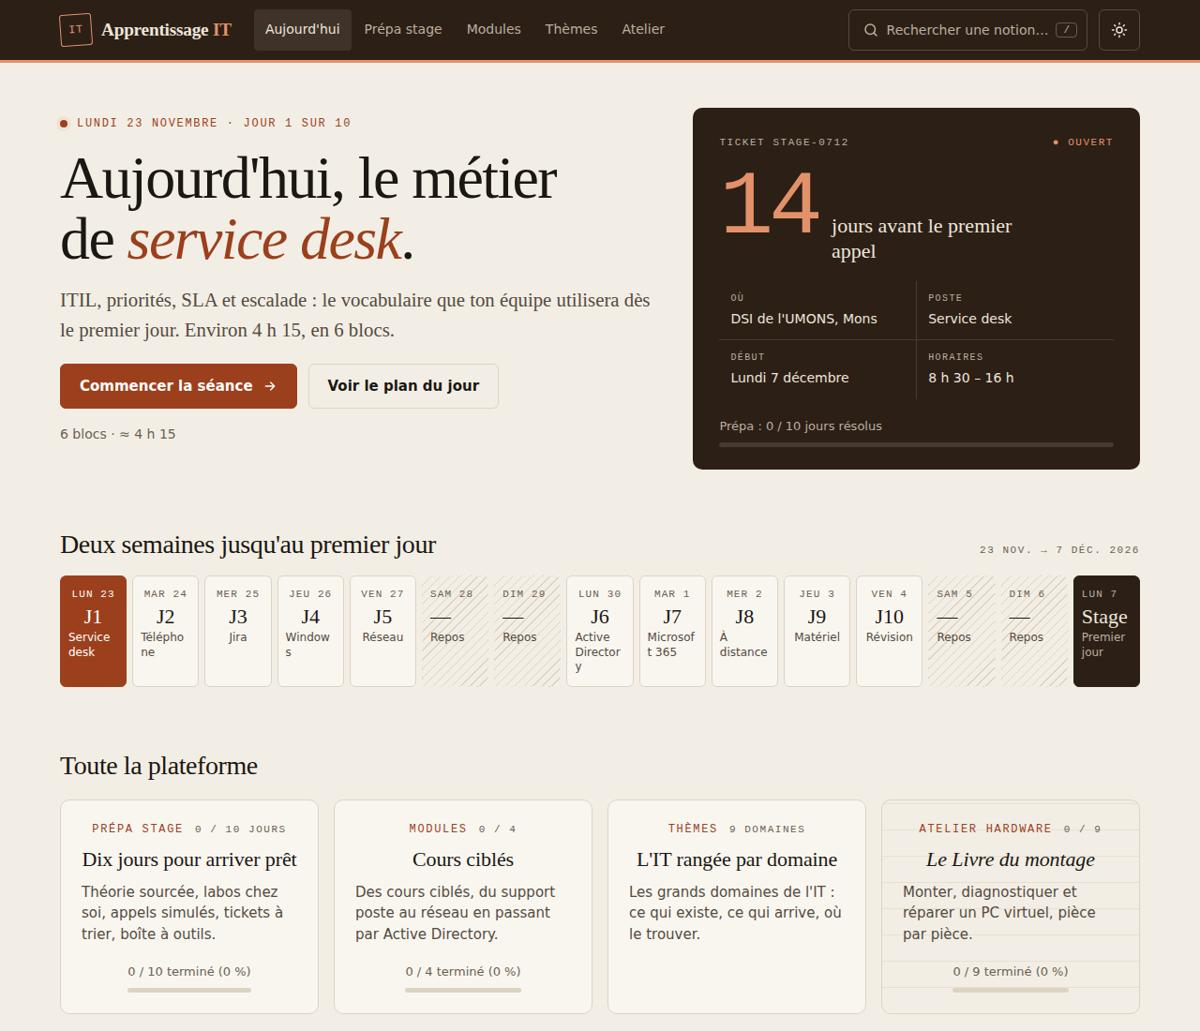
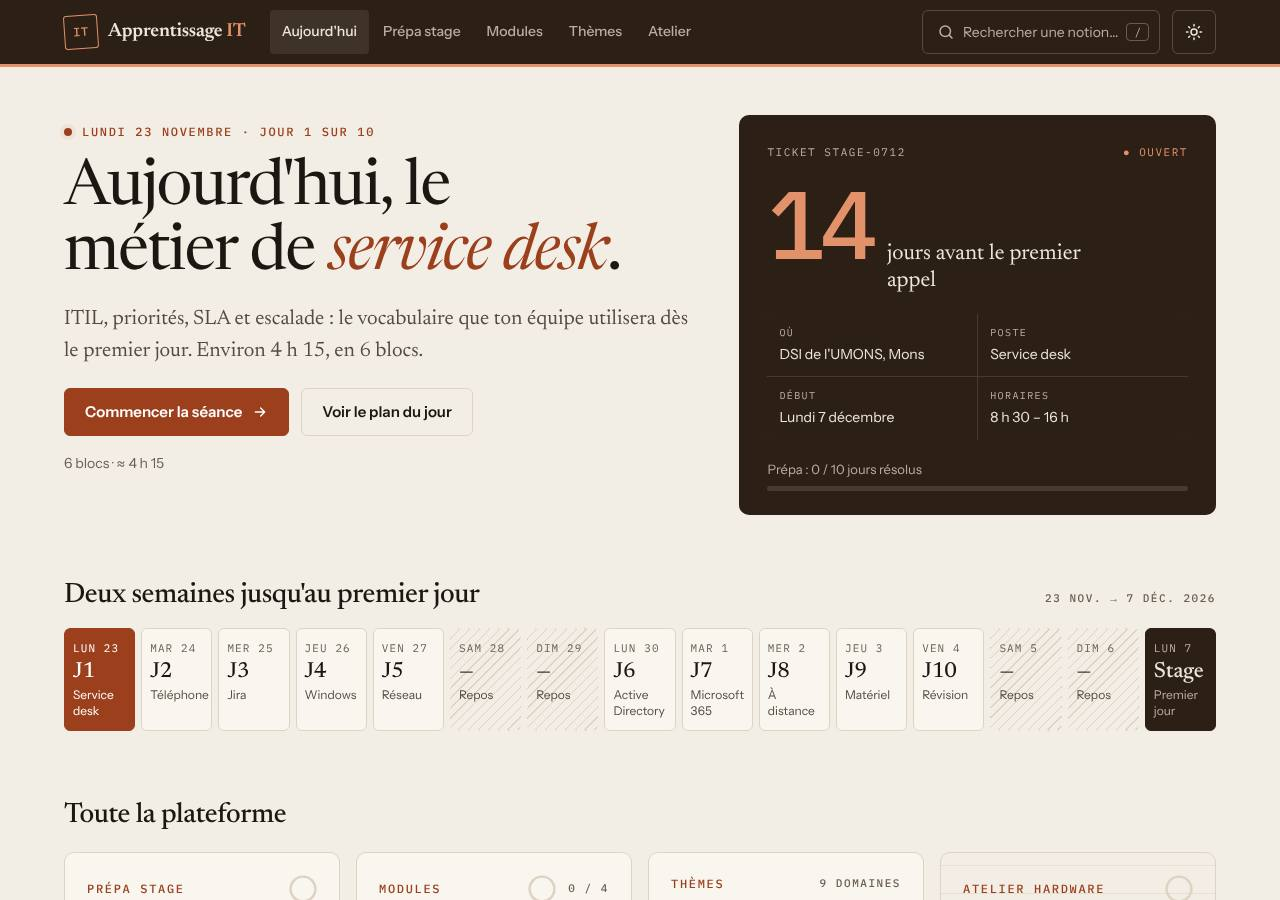
Lot 13 : finir l’accessibilité, les parcours et le ménage, rétablir la mise en page des liens, anneaux de progression et rapport final
Claude-Session: https://claude.ai/code/session_018EwsdEMJ6Dgafgxy6XGtMf

diff --git a/assets/style.css b/assets/style.css
@@ -14,6 +14,7 @@
   --font-text: "Newsreader", Georgia, "Times New Roman", serif;
   --font-ui: "Instrument Sans", system-ui, -apple-system, "Segoe UI", sans-serif;
   --font-code: "IBM Plex Mono", Consolas, "Courier New", monospace;
+  --fell: "IM Fell English", Georgia, "Times New Roman", serif; --fell-sc: "IM Fell English SC", "IM Fell English", Georgia, serif; --gravure: #E3B49A;
   --s1: 4px; --s2: 8px; --s3: 12px; --s4: 16px; --s5: 24px; --s6: 32px; --s7: 48px; --s8: 64px;
   --r-s: 4px; --r-m: 6px; --r-l: 10px;
   --shadow-float: 0 18px 48px -16px rgba(27, 23, 19, 0.55);
@@ -53,7 +54,6 @@ body {
 main { flex: 1; }
 img, svg { max-width: 100%; height: auto; }
 a { color: var(--accent); text-underline-offset: 0.18em; text-decoration-thickness: 1px; }
-@media screen { :where(a[href]) { display: inline-flex; align-items: center; min-width: 44px; min-height: 44px; max-width: 100%; overflow-wrap: anywhere; } }
 a:hover { text-decoration-thickness: 2px; }
 :focus-visible { outline: 3px solid var(--accent); outline-offset: 2px; border-radius: var(--r-s); }
 ::selection { background: var(--accent-soft); color: var(--ink); }
@@ -92,8 +92,7 @@ kbd { padding: 0.08em 0.42em; background: var(--surface); border: 1px solid var(
 .page { padding-top: var(--s6); padding-bottom: var(--s8); }
 @media (min-width: 52rem) { .page { padding-top: var(--s7); } }
 .grid { display: grid; gap: var(--s4); grid-template-columns: minmax(0, 1fr); }
-@media (min-width: 40rem) { .grid.cols-2, .grid.cols-3 { grid-template-columns: repeat(2, minmax(0, 1fr)); } }
-@media (min-width: 62rem) { .grid.cols-3 { grid-template-columns: repeat(3, minmax(0, 1fr)); } }
+@media (min-width: 40rem) { .grid.cols-2 { grid-template-columns: repeat(2, minmax(0, 1fr)); } }
 
 /* ---------- En-tête ---------- */
 .site-header { position: sticky; top: 0; z-index: 50; background: var(--bar); color: var(--bar-ink); border-bottom: 3px solid var(--bar-accent); font-family: var(--font-ui); }
@@ -324,8 +323,14 @@ a.case:hover { border-color: var(--accent); }
 .case.stage .case-date, .case.stage .case-sujet { color: var(--bar-soft); }
 .rubriques { display: grid; gap: var(--s4); grid-template-columns: repeat(auto-fit, minmax(min(100%, 15rem), 1fr)); }
 .rub { min-height: 13rem; gap: 10px; }
-.rub-tete { display: flex; align-items: center; justify-content: space-between; gap: var(--s3); }
+.rub-tete { display: flex; flex-wrap: wrap; align-items: center; justify-content: space-between; gap: var(--s2) var(--s3); }
+.rub-tete .kicker, .rub-tete .label { white-space: nowrap; }
 .rub-tete .kicker, .rub-tete .label { margin: 0; }
+.rub-tete .kicker { margin-right: auto; }
+.anneau { width: 28px; height: 28px; flex: none; }
+.anneau-fond, .anneau-val { fill: none; stroke-width: 3.2; }
+.anneau-fond { stroke: var(--line); }
+.anneau-val { stroke: var(--green); }
 .card.livre { background-color: var(--paper); background-image: repeating-linear-gradient(0deg, transparent 0 27px, color-mix(in srgb, var(--line) 55%, transparent) 27px 28px); }
 .trois { list-style: none; margin: 0 0 var(--s5); padding: 0; display: grid; gap: var(--s6); grid-template-columns: repeat(auto-fit, minmax(min(100%, 15rem), 1fr)); }
 .trois li { margin: 0; }
@@ -718,8 +723,7 @@ body.at-dragging { cursor: grabbing; }
 
 
 /* ---------- Atelier : « Le Livre du montage » (REFONTE.md § 3) ---------- */
-body.livre { --fell: "IM Fell English", Georgia, "Times New Roman", serif; --fell-sc: "IM Fell English SC", "IM Fell English", Georgia, serif; --gravure: #E3B49A;
-  background: radial-gradient(ellipse 80% 60% at 50% 30%, #3B2A1E, #1E150F) fixed; }
+body.livre { background: radial-gradient(ellipse 80% 60% at 50% 30%, #3B2A1E, #1E150F) fixed; }
 @media (prefers-color-scheme: dark) { :root:not([data-theme="light"]) body.livre { background: radial-gradient(ellipse 80% 60% at 50% 30%, #2A1D14, #0E0907) fixed; } }
 :root[data-theme="dark"] body.livre { background: radial-gradient(ellipse 80% 60% at 50% 30%, #2A1D14, #0E0907) fixed; }
 body.livre main { --ink: #EDE6DA; --ink-soft: #D3C7B6; --ink-pale: #BBAF9F; --accent: #E3916A; --accent-soft: rgba(227, 145, 106, 0.16); --on-accent: #1B1713; --line: rgba(237, 230, 218, 0.22); --surface: rgba(237, 230, 218, 0.06); --green: #94B98C; --red: #E88D79; --amber: #D9AE66; color: var(--ink); }

diff --git a/docs/composants.html b/docs/composants.html
@@ -10,7 +10,7 @@
 <meta property="og:type" content="website">
 <link rel="icon" type="image/svg+xml" href="../assets/favicon.svg">
 <script>try{var t=localStorage.getItem('it.theme');if(t==='light'||t==='dark')document.documentElement.setAttribute('data-theme',t)}catch(e){}</script>
-<link href="https://fonts.googleapis.com/css2?family=IBM+Plex+Mono:wght@400;500&family=Instrument+Sans:wght@400;500;600;700&family=Newsreader:ital,opsz,wght@0,6..72,400..700;1,6..72,400..700&display=swap" rel="stylesheet">
+<link href="https://fonts.googleapis.com/css2?family=IBM+Plex+Mono:wght@400;500&family=Instrument+Sans:wght@400;500;600;700&family=Newsreader:ital,opsz,wght@0,6..72,400..700;1,6..72,400..700&family=IM+Fell+English:ital@0;1&family=IM+Fell+English+SC&display=swap" rel="stylesheet">
 <link rel="stylesheet" href="../assets/style.css">
 <script src="../assets/data.js" defer></script>
 <script>
@@ -78,6 +78,22 @@ ping 127.0.0.1</code></pre>
 <p>La fiche est générée à partir du contenu du jour et imprimée en A4 ; le jour 10 n'en possède pas. <a href="../stage/j1.html#memo">Voir la fiche du jour 1</a>.</p>
 <h3>Le Livre du montage</h3>
 <p>Les pages de l'atelier réunissent cahier des charges, planche, légende, bac et notes en marge. <a href="../atelier/index.html">Voir le livre de l'atelier</a>.</p>
+
+<h2 id="jour">6. Pages de jour (construits par <code>assets/jour.js</code>)</h2>
+<p>Ces blocs ne s'écrivent pas à la main : <code>jour.js</code> les construit à partir du HTML des jours (plan horaire, tableau impact × urgence, <code>h3</code> de « Mises en situation », section <code>#memo</code>, case <code>data-done</code>). Rendu statique pour référence :</p>
+<article class="ticket-cas"><header class="cas-tete"><span class="cas-id">CAS-01</span><span class="cas-jour">Jour 1</span><span class="cas-statut">À trier</span></header>
+<div class="cas-corps"><h3>Titre de la mise en situation</h3><p>Énoncé du cas.</p>
+<details class="correction"><summary>J'ai répondu : voir la résolution</summary><p class="cas-resolution">Résolution</p><p>Correction cachée.</p></details></div></article>
+<section class="cloture faite" aria-label="Clôture du jour (exemple)"><div class="cloture-txt"><p class="cloture-q">Jour 1 résolu le 23.11.2026.</p></div><div class="tampon" aria-hidden="true"><span class="tampon-mot">RÉSOLU</span><span class="tampon-date">Jour 1 · 23.11.2026</span></div><button type="button" class="btn ghost">Rouvrir le jour 1</button></section>
+<p>Autres pièces de <code>jour.js</code> : minuteur <code>.seance</code> (état <code>it.seance.jN</code>, pastille <code>.seance-pastille</code> sur mobile), matrice <code>.matrice</code>, tiroirs <code>.tiroir</code>, fiche A4 <code>.fiche-print</code> (visible seulement à l'impression).</p>
+
+<h2 id="livre">7. Le Livre du montage (atelier)</h2>
+<p>Pages claires même en thème sombre ; polices IM Fell. Les notes en marge remplacent les encadrés.</p>
+<div class="livre-double" style="grid-template-columns:minmax(0,1fr)"><section class="livre-page gauche" aria-label="Exemple de page">
+<p class="titre-courant"><span>Chap. I — Exemple</span><span>Étape 1 sur 15</span></p>
+<div class="livre-corps"><h2>Titre d'étape</h2><p class="texte at-client">Texte justifié avec lettrine, comme le premier paragraphe d'une étape ou du cahier des charges.</p><p class="ornement" aria-hidden="true">✣</p>
+<p class="note-marge"><span class="note-tit">Indice 1</span>Une note en marge, filet rouille ; vert si juste, rouge si erreur.</p></div>
+<div class="folio-ligne"><span class="voisin">‹ étape précédente</span><span class="folio">3</span></div></section></div>
 </div></main>
 </body>
 </html>

diff --git a/assets/recherche.js b/assets/recherche.js
@@ -12,6 +12,8 @@ window.IT_RECHERCHE = [{"g":"Notions","tag":"page","t":"Deux semaines jusqu'au p
 {"g":"Notions","tag":"page","t":"Quiz et progression","o":"Guide · composants","u":"docs/composants.html#quiz","m":" "},
 {"g":"Notions","tag":"page","t":"Boutons, cartes, pastilles","o":"Guide · composants","u":"docs/composants.html#boutons","m":"Titre de carte · Sans lien Bouton principal Secondaire"},
 {"g":"Notions","tag":"page","t":"Composants des journées et de l'atelier","o":"Guide · composants","u":"docs/composants.html#composants-specifiques","m":"Minuteur de séance · Ticket de mise en situation · Tampon de clôture · Matrice de priorité · Fiche mémo imprimable · Le Livre du montage Le panneau sombre lit les durées du plan horaire, affiche le bloc courant et conser"},
+{"g":"Notions","tag":"page","t":"Pages de jour (construits par assets/jour.js)","o":"Guide · composants","u":"docs/composants.html#jour","m":"Titre de la mise en situation Ces blocs ne s'écrivent pas à la main : jour.js les construit à partir du HTML des jours (plan horaire, tableau impact × urgence, h3 de « Mises en situation », section #memo, case data-done)"},
+{"g":"Notions","tag":"page","t":"Le Livre du montage (atelier)","o":"Guide · composants","u":"docs/composants.html#livre","m":" Pages claires même en thème sombre ; polices IM Fell. Les notes en marge remplacent les encadrés."},
 {"g":"Notions","tag":"jour","t":"Plan de la journée","o":"Prépa · jour 1 · Service desk","u":"stage/j1.html#plan","m":" "},
 {"g":"Notions","tag":"jour","t":"Le rôle du service desk","o":"Prépa · jour 1 · Service desk","u":"stage/j1.html#role","m":"Les niveaux de support · Le taux de résolution au premier contact Le service desk est le point de contact unique entre les utilisateurs et le service informatique. Toute demande y entre, qu'elle arrive par téléphone, par"},
 {"g":"Notions","tag":"jour","t":"Incident, demande, problème, changement","o":"Prépa · jour 1 · Service desk","u":"stage/j1.html#types","m":"Incident · Demande de service · Problème · Changement Ces quatre mots viennent d'ITIL, un référentiel de bonnes pratiques de gestion des services informatiques. Jira Service Management reprend ces notions dans ses types "},

diff --git a/index.html b/index.html
@@ -59,13 +59,11 @@
         <p class="rub-tete"><span class="kicker">Prépa stage</span><span class="label" data-compteur="stage"></span></p>
         <h3>Dix jours pour arriver prêt</h3>
         <p>Théorie sourcée, labos chez soi, appels simulés, tickets à trier, boîte à outils.</p>
-        <div class="progress" data-progress="stage"></div>
       </a>
       <a class="card rub" href="modules/index.html">
         <p class="rub-tete"><span class="kicker">Modules</span><span class="label" data-compteur="modules"></span></p>
         <h3>Cours ciblés</h3>
         <p>Des cours ciblés, du support poste au réseau en passant par Active Directory.</p>
-        <div class="progress" data-progress="modules"></div>
       </a>
       <a class="card rub" href="themes.html">
         <p class="rub-tete"><span class="kicker">Thèmes</span><span class="label" data-compteur="themes"></span></p>
@@ -76,7 +74,6 @@
         <p class="rub-tete"><span class="kicker">Atelier hardware</span><span class="label" data-compteur="atelier"></span></p>
         <h3><em>Le Livre du montage</em></h3>
         <p>Monter, diagnostiquer et réparer un PC virtuel, pièce par pièce.</p>
-        <div class="progress" data-progress="atelier"></div>
       </a>
     </div>
   </section>

diff --git a/assets/accueil.js b/assets/accueil.js
@@ -150,7 +150,21 @@
     themes: (M && M.domaines ? M.domaines.length : 0) + " domaines",
     atelier: compte("atelier") + " / " + units("atelier").length
   };
+  var ratios = {
+    stage: [faits, J.length],
+    modules: [compte("modules"), units("modules").length],
+    atelier: [compte("atelier"), units("atelier").length]
+  };
   Array.prototype.forEach.call(document.querySelectorAll("[data-compteur]"), function (n) {
-    n.textContent = textes[n.getAttribute("data-compteur")] || "";
+    var k = n.getAttribute("data-compteur");
+    n.textContent = textes[k] || "";
+    var r = ratios[k];
+    if (!r || !r[1]) return;
+    /* Anneau de progression de la rubrique (décoratif : le compteur texte donne la valeur). */
+    var pct = Math.round(r[0] / r[1] * 100);
+    var svg = document.createElementNS("http://www.w3.org/2000/svg", "svg");
+    svg.setAttribute("class", "anneau"); svg.setAttribute("viewBox", "0 0 36 36"); svg.setAttribute("aria-hidden", "true");
+    svg.innerHTML = '<circle class="anneau-fond" cx="18" cy="18" r="15.9155"/><circle class="anneau-val" cx="18" cy="18" r="15.9155" stroke-dasharray="' + pct + ' 100" transform="rotate(-90 18 18)"/>';
+    n.parentNode.insertBefore(svg, n);
   });
 })();

diff --git a/docs/PLAN.md b/docs/PLAN.md
@@ -1,5 +1,14 @@
 # Plan de travail
 
+## Rapport final de la refonte (lots 8 à 13)
+**Fait.** Socle « Poste de garde » en une seule feuille de style (jetons, typographie, encadrés à trois niveaux, en-tête sombre au logo tampon) ; accueil en tableau de mission (jour du jour, reprise, ticket-décompte, frise) ; recherche rapide (`/`, Ctrl+K, 221 entrées) ; pages de jour en trois colonnes avec tiroirs, minuteur, matrice, tickets, tampon RÉSOLU et fiche mémo A4 ; modules (parcours, puces, jauges) et atlas des thèmes ; atelier « Le Livre du montage » (double page, notes en marge, planches gravées, observations, table des matières et index) ; 404, favicon, Open Graph. Contrôles : `npm run controles` = 28 pages × 4 largeurs × 2 thèmes, serveur et `file://`, 0 problème, plus clavier, contrastes AA, parcours et impression.
+
+**Captures clés.** [Accueil](captures/accueil-clair.jpg) · [Accueil mobile sombre](captures/accueil-mobile-sombre.jpg) · [Jour 1](captures/jour-1.jpg) · [Jour 1 mobile](captures/jour-1-mobile.jpg) · [Modules](captures/modules.jpg) · [Atelier](captures/atelier.jpg).
+
+**À vérifier sur place (UMONS).** 66 questions pour le tuteur : 48 dans la prépa (encadré ambre en fin de chaque jour J1 à J9, imprimé sur la fiche mémo, rappel au J10) et 18 dans les modules ; s’y ajoutent les étiquettes « À l’UMONS » en ligne (canaux et horaires du service desk, matrice de priorité et SLA Jira, équipes d’escalade, procédures de sécurité, vérification d’identité, outils de prise en main à distance, déploiement et inventaire).
+
+**Idées pour la suite.** Module « Matériel et PC » (l’atelier y renvoie encore vers le support Windows) ; modules Microsoft 365 et dépannage à distance ; export/import de la progression `it.*` (fichier) pour changer d’appareil ; mode révision express (fiches mémo seules) pour la semaine du stage ; après le 7/12, un journal de stage privé hors de ce dépôt public.
+
 Un lot = une session d'agent (Claude Code ou ChatGPT / Codex, nouvelle conversation). Règles communes : `AGENTS.md`. Lancer avec :
 `Lis AGENTS.md et docs/PLAN.md, puis fais le lot N.`
 Si un lot est coupé par la limite d'utilisation : `Lis AGENTS.md et docs/PLAN.md, et reprends le lot N à la première sous-étape non cochée (branche lot-N).`
@@ -106,20 +115,29 @@ Reste : rien pour ce lot. Règles inchangées ; seul l'affichage a bougé : `ate
 ## Lot 13 — Vérification finale et peaufinage
 - [x] 13.1 Audit complet : serveur et file://, quatre largeurs, deux thèmes, corrections et captures.
   Fait : audit GitHub Actions, 27 pages × 4 largeurs × 2 thèmes sur serveur et en file://, zéro problème et avertissement ; six captures conservées.
-- [ ] 13.2 Accessibilité : contrastes, clavier, ARIA, titres et mouvement réduit.
+- [x] 13.2 Accessibilité : contrastes, clavier, ARIA, titres et mouvement réduit.
+  Fait : `npm run accessibilite` (focus visible, tiroirs et retour du focus, recherche au clavier, mouvement réduit, commandes de l’atelier, références ARIA de toutes les pages) et `npm run contrastes` (0 couple sous AA), clair et sombre.
   Fait partiellement : contrastes des textes visibles au chargement contrôlés, bouton de l’atelier corrigé ; recherche, tiroirs et premiers parcours clavier vérifiés ; compléter ARIA et atelier avant de cocher.
-- [ ] 13.3 Fonctionnel : progression, quiz, minuteur, recherche, modules et atelier, serveur et file://.
+- [x] 13.3 Fonctionnel : progression, quiz, minuteur, recherche, modules et atelier, serveur et file://.
+  Fait : `npm run parcours` en serveur et en file:// (progression et tampon, minuteur et reprise, quiz, chaque destination de la recherche, filtres, atlas, montage guidé, mode test, dossier de panne, deux évaluations) : 0 échec ; test du tampon rendu robuste au rechargement.
   Fait partiellement : progression, quiz, minuteur, filtres, atlas et montage guidé testés dans les deux modes ; compléter la recherche, le mode test et les évaluations.
-- [ ] 13.4 Impression : fiches mémo J1 à J9 et bilan de l’atelier en A4 ; justification pour J10.
+- [x] 13.4 Impression : fiches mémo J1 à J9 et bilan de l’atelier en A4 ; justification pour J10.
+  Fait : J1 à J9 sur une page A4 chacun, bilans des deux évaluations en A4 (contrôlés par `npm run parcours`).
   Fait partiellement : J1 à J9 tiennent chacun sur une page A4 dans les deux modes. Justifié : J10 est une révision et ne contient pas de section fiche mémo.
-- [ ] 13.5 Conformité : contrôle de chaque point de la refonte et justification des écarts.
+- [x] 13.5 Conformité : contrôle de chaque point de la refonte et justification des écarts.
+  Fait : relecture de REFONTE.md ; ajout de l’anneau SVG de progression sur les cartes de l’accueil (§ 1, Progression). Justifié aussi : l’atelier garde le site en clair/sombre autour du livre (seul le bureau fonce).
   Justifié : les folios « étape précédente / suivante » restent des titres non cliquables ; le moteur avance par la réussite des étapes.
   Justifié : la règle universelle `prefers-reduced-motion` utilise `!important` pour neutraliser toutes les animations et transitions.
   Justifié : les filtres « niveau » et « progression » ont été retirés conformément aux filtres par domaine prévus par la refonte.
   Justifié : l’index de recherche est généré depuis les contenus plutôt qu’écrit à la main pour limiter les ancres périmées, sans fetch local.
-- [ ] 13.6 Peaufinage : page 404, favicon, métadonnées et états vides.
-- [ ] 13.7 Ménage : code mort, documentation, index et audit final.
-- [ ] 13.8 Rapport final, fusion et livraison.
+- [x] 13.6 Peaufinage : page 404, favicon, métadonnées et états vides.
+  Fait : 404.html (avec polices), favicon `assets/favicon.svg`, Open Graph sur toutes les pages. Annulé : le retrait des polices Google (contraire à la DA) et la règle CSS qui transformait tous les liens en boîtes de 44 px (cartes centrées, mots coupés) ; l’audit exempte de nouveau les liens dans une phrase (WCAG 2.5.8).
+- [x] 13.7 Ménage : code mort, documentation, index et audit final.
+  Fait : CSS mort retiré (`.grid.cols-3`), `docs/composants.html` complété (tickets, tampon, livre), règles communes déplacées dans `AGENTS.md` (Claude Code et ChatGPT), `package.json` des outils (`npm run controles`), scripts renommés sans « lot-13 », workflow `audit.yml` sur toutes les branches `lot-*`, index régénéré, captures refaites.
+- [x] 13.8 Rapport final, fusion et livraison.
+  Fait : rapport en tête de ce fichier, fusion dans `main`.
+
+Reste : rien pour ce lot. Prochaine étape : un module par lot (voir « Ensuite »).
 
 ## Ensuite
 Un module par lot, en commençant par les besoins du stage. Ajouter ici les nouveaux lots au fil de l'eau.
